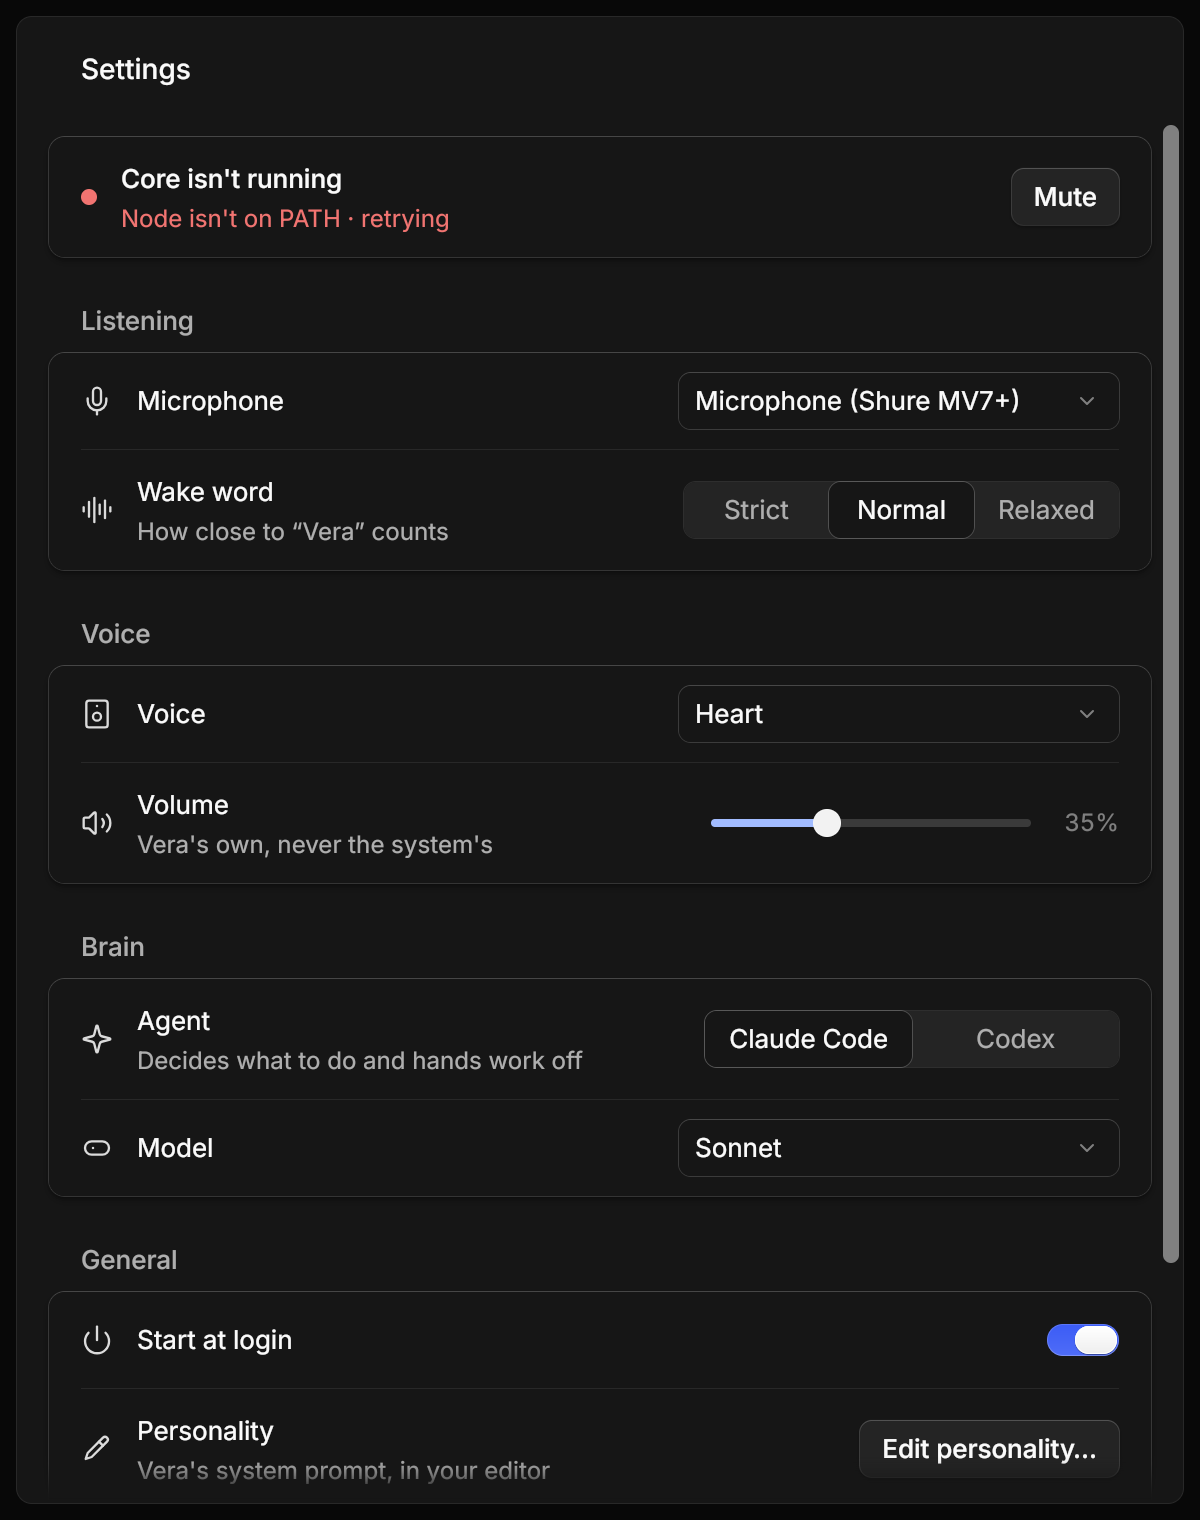
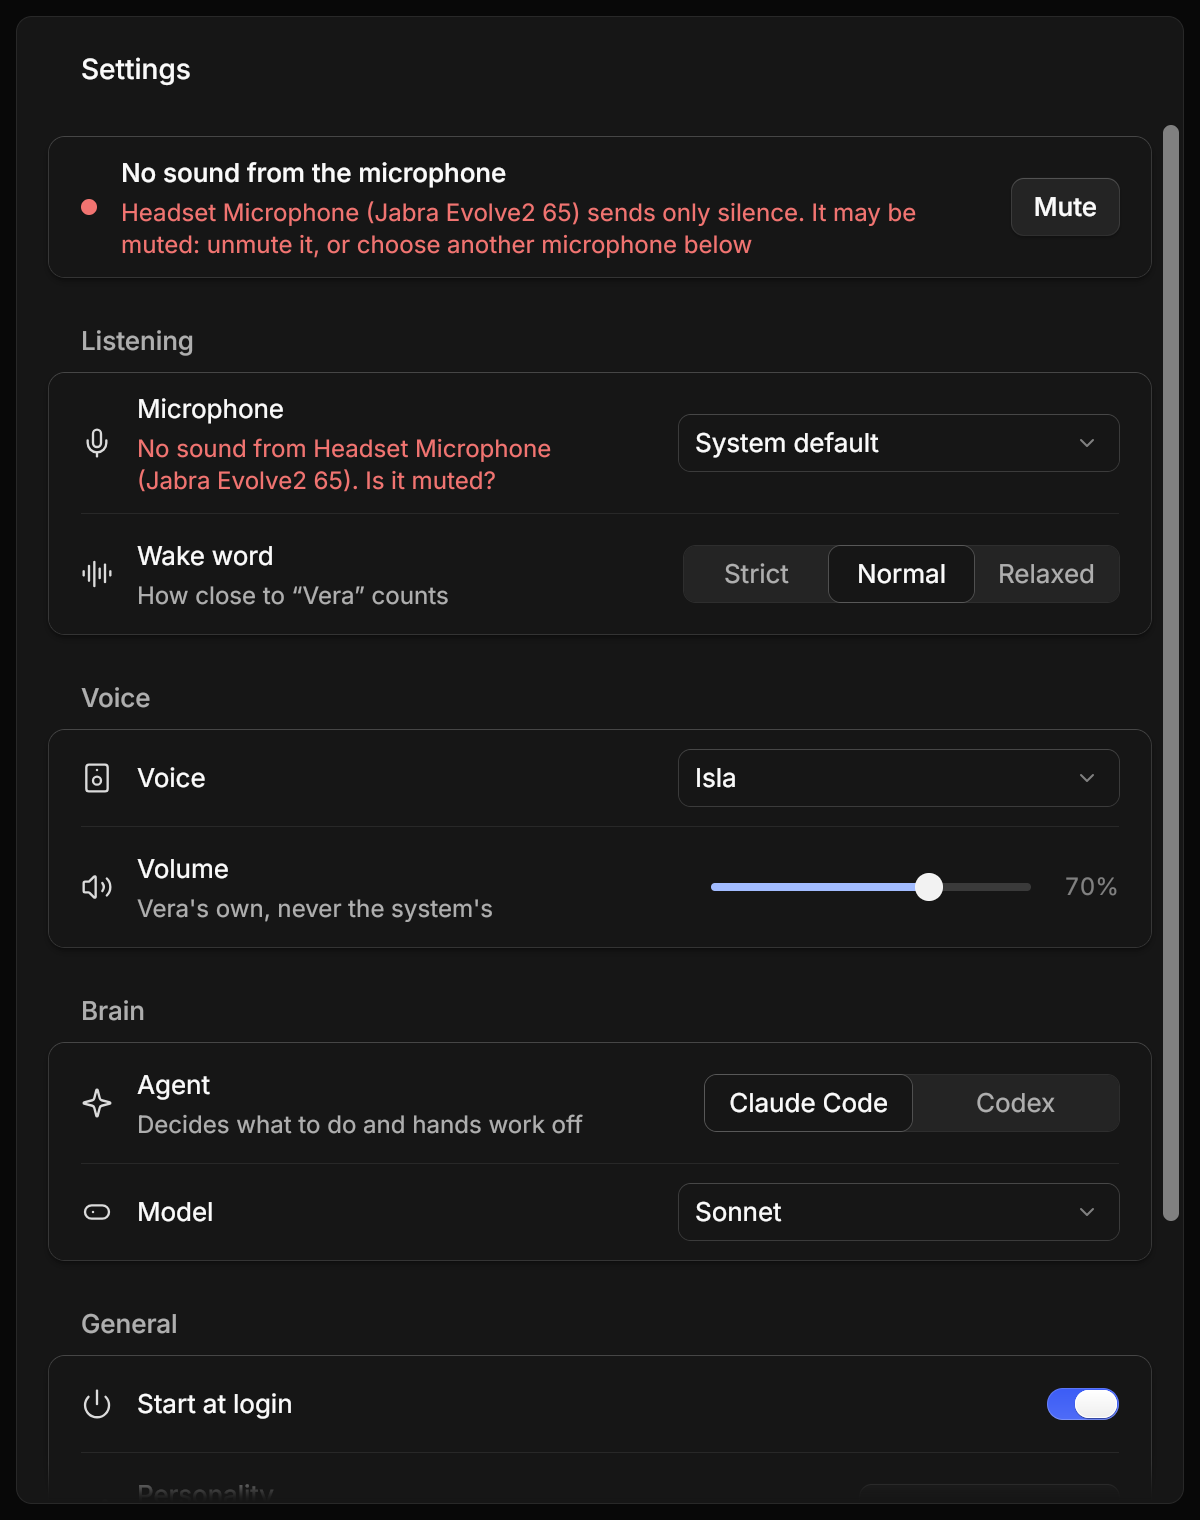
Vera v2 docs: try it from the tray, protocol and volume, fresh screens
README's "Try it" now starts from Vera already running in the tray: what
to say, Settings, how to quit, and known limits. VERA.md's protocol lists
ready.volume, speech_cancel.t, playback failed, and the volume scale.
docs/vera-app.md describes the real audio engine, the Python voice
service, and the silent-microphone warning. Screens re-rendered.

diff --git a/README.md b/README.md
@@ -3,66 +3,63 @@
 This fork is **Vera**, a hands-free voice front end for coding agents (design:
 [`VERA.md`](VERA.md)). Hex's own README follows below.
 
-**Run it** (Windows, from this repo):
-
-```sh
-cd vera
-pnpm start
-```
-
-That starts the daemon, opens the panel (http://127.0.0.1:7313) as an Edge
-app window, and listens on the default microphone. One-time setup is
-already done on this machine. On a fresh one:
-
-```sh
-sh scripts/vera-ears-build.sh            # Git Bash, ~4 min: builds target/release/hex.exe (Ears)
-cd vera && pnpm install
-pnpm --filter @vera/mouth run setup      # Vera's voice (~350 MB) to ~/.vera/models; needs ffplay (scoop install ffmpeg)
-claude auth login                        # if the brain says it isn't signed in
-```
-
-Ears needs the installed Hex's speech models (`%LOCALAPPDATA%\hex\models`).
-If `target/release/hex.exe` is missing, `pnpm start` says how to build it and
-runs with the panel's text box only.
+**It's already running.** Vera lives in the tray (the ^ overflow: a white
+nested triangle, with a blue dot when something new arrived), starts at
+login, and shows nothing else until you talk to her: a small HUD at the
+bottom of the screen while she listens, thinks, or speaks, and a card at the
+top right when she has something to show you. Left-click the tray
+icon for Settings; right-click for Mute microphone, Stop talking, and Quit.
 
 **Things to say**
 
-- "Vera, what time is it?" then, within 8 s of her answer and without "Vera":
-  "And what day is it?"
-- "Hey Vera, give me a fun fact about tomatoes." then "Vera, stop." while
-  she talks (works with a headset; over speakers use the panel's Stop or Esc)
-- "Vera." alone: a chime, then say the request without the wake word
-- "Vera, ask Claude to ..." / "ask Codex to ..." for background work: a chime
-  when it's done, then "Vera, what's new?"
+- "Vera, what time is it?" then, within 8 s of her answer and without
+  "Vera": "And what day is it?"
+- Talk over her at any time ("Wait, …", "Stop"): she ducks at once and stops
+  within about half a second, then hears the rest as your next turn. "Stop"
+  or "never mind" on its own just ends it. `Ctrl+Alt+Space` or the tray's
+  Stop talking also stop her.
+- "Vera, you're too loud" / "speak up": her own volume, never the
+  computer's (also the Volume slider in Settings).
+- "Vera, show me …" opens a card; "close that" closes it.
+- "Vera, ask Claude to …" / "ask Codex to …" for background work: a chime
+  and a tray badge when it's done, then "Vera, what's new?"
 - "Vera, what are my T3 threads doing?", "Vera, start a T3 thread in hex
-  to ..."
-- "Vera, never mind" / "Vera, stop" ends a turn
+  to …"
+- "Vera, switch to Codex" (or "… to Claude"), or pick the agent in Settings.
 
-**Switch brains:** say "Vera, switch to Codex" (or "... to Claude"), or set
-`brain.harness` to `"codex"` or `"claude-code"` in `~/.vera/config.json`.
-Default: Claude Code, Sonnet, low effort.
+**Settings** (left-click the tray icon): microphone (System default follows
+Windows' default input), wake-word strictness, voice (Isla by default; Nora,
+June, Eli), volume, agent and model, start at login, and Edit personality
+(her system prompt). Everything lives in `~/.vera/` (`config.json`, `logs/`).
 
-**Voice samples:** [`vera/mouth/samples/`](vera/mouth/samples/) (`preset-vera.mp3`
-is the voice she uses). Other voices and presets: [`vera/mouth/README.md`](vera/mouth/README.md).
+**Quit:** tray → Quit Vera, or `vera quit`. That stops Core, the brain, and
+the voice service (and frees its GPU memory). Start it again from
+`target\release\vera.exe` (or log in again).
 
-**Measured:** end of your speech to Vera's first sound is about 2 s for a
-short answer (0.7 s waiting to be sure you stopped, ~1 s brain, ~0.3 s voice),
-about 3 s for a long one. Test: `node vera/core/scripts/e2e/run.mjs` (see
-[`vera/core/README.md`](vera/core/README.md)).
+**Known limits**
 
-**Known limitations**
+- Vera hears the **Windows default microphone**. If it's muted at the device
+  (the CORSAIR headset was), Settings turns red and says "No sound from the
+  microphone"; unmute it or pick another one there.
+- Her voice takes about 20 s to load after launch (Settings says so); she
+  can't speak before that.
+- She can't be interrupted during her first second of speech after launch,
+  while the echo canceller learns the room. Very weak, late echo (the HDMI
+  monitor speakers) leaves the canceller unlocked; a headset is the most
+  reliable. Anyone talking in the room interrupts her.
+- About 2 s from the end of your sentence to her first word (0.7 s to be
+  sure you stopped, ~1 s brain, ~0.2 s voice).
+- The voice service holds about 5.5 GB of GPU memory while Vera runs.
+- A Claude Code sign-in expires now and then; run `claude auth login`.
+- Windows only.
 
-- "Vera, stop" while she talks only works when her voice doesn't reach the
-  microphone (a headset). Over speakers, Ears is deaf to you until she
-  finishes, plus 0.3 s.
-- A Claude Code sign-in expires around Dec 1 to 4; run `claude auth login`.
-- The follow-up window is 8 s after she stops; after that you need "Vera"
-  again. Misheard wake words like "Variable," / "Sarah," work only at the
-  start of a sentence; "Hey there," only within 2 minutes of her last reply.
-- Ears and the installed Hex each hold a copy of the speech model on the GPU
-  (about 0.7 GB each). Don't rebuild Ears while Vera is running (the exe is
-  locked).
-- Windows only for now.
+**Rebuilding:** quit Vera first (the exe is locked), then
+`sh scripts/vera-app-build.sh` (Git Bash). Setup on a fresh machine:
+`cd vera && pnpm install`, `vera\voice\scripts\setup.ps1`, and the installed
+Hex's speech models. Details: [`docs/vera-app.md`](docs/vera-app.md),
+[`docs/vera-audio.md`](docs/vera-audio.md),
+[`vera/core/README.md`](vera/core/README.md),
+[`vera/voice/README.md`](vera/voice/README.md).
 
 ---
 

diff --git a/docs/vera-app.md b/docs/vera-app.md
@@ -52,7 +52,8 @@ suspended, put in its own kill-on-close job object, then resumed, so nothing
 they start can escape. They restart after 1, 2, 5, 10, then 30 s (the count
 resets once a child has run a minute). Quitting closes Core's stdin, waits
 1.5 s, then closes the job; a crashed Vera's jobs close with it. Stderr goes
-to `~/.vera/logs/core.log` and `voice.log`; the app logs to
+to `~/.vera/logs/core.log` and `voice-service.log` (the services keep their
+own logs too: `core-<date>.log`, `voice.log`); the app logs to
 `~/.vera/logs/vera-app.log`.
 
 - **Core**: `app.core.command` if set (argv), else
@@ -60,12 +61,17 @@ to `~/.vera/logs/core.log` and `voice.log`; the app logs to
   `<repo>/vera/core` (`app.core.entry`, `app.core.args` adjust it). Node is
   found on PATH; Core's packages must be installed (`pnpm install` in
   `vera/`). Env: `VERA_APP=1`, `VERA_VOICE_URL`.
-- **Voice service**: `app.voiceService.command` if set, else the first of
-  `src/server.ts`, `src/main.ts`, `src/index.ts` in `<repo>/vera/voice`, with
-  `--port <app.voiceService.port>` (default 7314) and `VERA_VOICE_PORT`. The
-  app polls `GET /v1/health` and lists voices from `GET /v1/voices`
-  (`{"voices":[{"id","name"}]}`, a list of those, or a list of ids; health's
-  `voice` alone otherwise).
+- **Voice service** (`vera/voice`, Qwen3-TTS on the GPU):
+  `app.voiceService.command` if set, else
+  `~/.vera/voice/venv/Scripts/pythonw.exe -m vera_voice serve --port <port>
+  --parent-pid <vera.exe's pid>` in `<repo>/vera/voice` (so the repo's code
+  runs), port `app.voiceService.port` (default 7314). `pythonw` has no
+  console; `--parent-pid` makes it exit, freeing its ~5.5 GB of VRAM, the
+  moment Vera does. It needs `veraoice\scripts\setup.ps1` once. It's
+  ready about 20 s after launch; until then Settings says the voice is
+  loading and a `speak` fails (an error chime). The app polls
+  `GET /v1/health` and lists voices from `GET /v1/voices`, leaving out the
+  ones marked `available: false`.
 - The repo is `app.repo`, else `$VERA_REPO`, else the first folder above
   `vera.exe` with `vera/core/package.json`.
 
@@ -99,7 +105,7 @@ re-reading the file first so Core's keys survive: `brain.harness`
 
 ```json
 "app": {
-  "microphone": null, "volume": 0.35, "voice": null,
+  "microphone": null, "volume": 0.7, "voice": null,
   "startAtLogin": true, "stopHotkey": "Ctrl+Alt+Space", "hud": "bottom",
   "repo": null,
   "core": { "command": null, "entry": "vera/core/src/main.ts", "args": ["--stdio"] },
@@ -112,24 +118,26 @@ speaks), so overheard speech never shows there. "Edit personality…" opens
 `~/.vera/system-prompt.md` in the default editor (Notepad if none), seeding
 it from Core's prompt when missing.
 
-## Audio engine seam
+## Audio engine
 
-`src/vera/audio.rs` is a stub until `vera/duplex` lands; replace that one
-file. The app uses exactly:
+`src/vera/audio.rs` is the full-duplex engine (`docs/vera-audio.md`):
+WebRTC AEC3 against Vera's own playback, barge-in, Parakeet speech to text,
+and Vera's own volume. The runtime starts it with `app.microphone` (`null`
+follows the Windows default input live), `app.volume`, `app.voice`, and the
+voice service's URL (`http://127.0.0.1:<app.voiceService.port>`), and
+forwards its events to Core. `Ready` carries Vera's `volume` so Core's
+"quieter" starts from the real level; Settings' slider sends
+`settings_changed` with the new `volume`. A `playback` `failed` (the voice
+service couldn't speak) plays the error chime and goes to Core, which skips
+that line. Engine errors show in Settings' status line.
 
-```rust
-VeraAudio::start(AudioConfig { microphone, volume, mic_muted, voice_url, voice })
-    -> (VeraAudio, Receiver<AudioEvent>)
-.speak(speak_id, text) .stop_playback() .set_volume(f32) .set_mic_muted(bool)
-.chime(Chime) .levels() -> (mic_rms, out_rms)
-AudioEvent: Ready{mic, engine} | SpeechStart{t} | Partial{text, t}
-          | Final{text, start, end, during_playback} | SpeechCancel{reason}
-          | BargeIn{speak_id} | Playback{speak_id, state: Started|Finished|Interrupted}
-```
-
-A microphone or voice change in Settings drops the engine and starts a new
-one. `levels()` feeds the HUD about 30 times a second while it listens or
-speaks: linear RMS, the output before Vera's volume.
+A microphone that's open but sends only digital silence for 4 s (a headset
+muted at the device, a dead input) turns Settings' status red ("No sound from
+the microphone", naming it) and says so in the tray tooltip, until it hears
+sound again. A microphone or voice change in Settings drops the engine and
+starts a new one. `levels()` feeds the HUD about 30 times a second while it
+listens or speaks: the user's voice after echo cancellation, and Vera's
+output before her volume.
 
 ## HUD
 

diff --git a/VERA.md b/VERA.md
@@ -85,14 +85,14 @@ also stop speech.
 app → core:
 
 ```json
-{"type":"ready","mic":"…","engine":"parakeet_unified_en"}
+{"type":"ready","mic":"…","engine":"parakeet_unified_en","volume":0.7}
 {"type":"speech_start","t":0}
 {"type":"partial","text":"vera can you","t":0}
 {"type":"final","text":"Vera, can you check on the hex thread?","start":0,"end":0,"during_playback":false}
-{"type":"speech_cancel","reason":"…"}
+{"type":"speech_cancel","t":0,"reason":"…"}
 {"type":"barge_in","speak_id":"s12"}
-{"type":"playback","speak_id":"s12","state":"started|finished|interrupted"}
-{"type":"ui","action":"stop_talking|mute|unmute|settings_changed|card_closed"}
+{"type":"playback","speak_id":"s12","state":"started|finished|interrupted|failed"}
+{"type":"ui","action":"stop_talking|mute|unmute|settings_changed|card_closed","card_id"?:"c3","volume"?:0.7}
 ```
 
 core → app:
@@ -104,11 +104,18 @@ core → app:
 {"cmd":"chime","kind":"notify|listening|done|error"}
 {"cmd":"show","card_id":"c3","title":"…","markdown":"…"}
 {"cmd":"hide","card_id":"c3"}
-{"cmd":"set_volume","level":0.35}
+{"cmd":"set_volume","level":0.55}
 {"cmd":"badge","count":2}
 ```
 
-Volume level is 0–1 and is Vera's own output gain; the app persists it.
+Volume level is 0–1 and is Vera's own output gain; the app owns and persists
+it (`app.volume`) and sends it to Core on `ready` and `settings_changed`. The
+scale is the audio engine's: level `v` is `40 × (v − 1)` dB under the voice
+service's own level, so each 0.1 is 4 dB and 0 is silent. The default, 0.7
+(−12 dB, about −32 LUFS), is roughly half as loud as v1. "Quieter" and
+"louder" are steps of 0.15 (6 dB), 0.3 with "a lot". `failed` means the voice
+service couldn't speak that line (the app chimes an error); Core treats it as
+done, not as an interruption.
 Logs go to stderr, and the app writes them to `~/.vera/logs/`. In
 `--stdio` mode Core runs no web panel; a debug HTTP hook
 (`POST /api/utterance`) may stay on localhost for tests.

diff --git a/AGENTS.md b/AGENTS.md
@@ -3,7 +3,8 @@
 
 This repo is **vera-voice**, Shawn's fork of Hex that becomes **Vera**: a
 hands-free voice front end for coding agents. Read [`VERA.md`](VERA.md) for
-the design and the contracts between Ears, Mouth, and Core.
+the design and the contracts between the App (`vera.exe`), Core, and the
+voice service ([`docs/vera-app.md`](docs/vera-app.md) for the app).
 
 These rules override the upstream Hex guide below:
 
@@ -13,8 +14,10 @@ These rules override the upstream Hex guide below:
   regeneration requirement. Keep Hex's own dictation working. Don't break it
   for no reason.
 - Development machine is **Windows 11 x64**. Build and test here.
-- Vera TypeScript lives in `vera/` (a pnpm workspace on Node 22). Hex's Rust
-  code is used for speech to text (Ears).
+- Vera's app is `vera.exe`, a second binary of this crate (`src/vera.rs`,
+  `src/vera/`, `src/rune_ui/vera/`; `scripts/vera-app-build.sh`). Core is
+  TypeScript in `vera/core` (a pnpm workspace on Node 22); the voice service
+  is Python in `vera/voice`.
 - Never commit secrets or anything from `~/.vera/`.
 - Don't push to the upstream remote.
 
